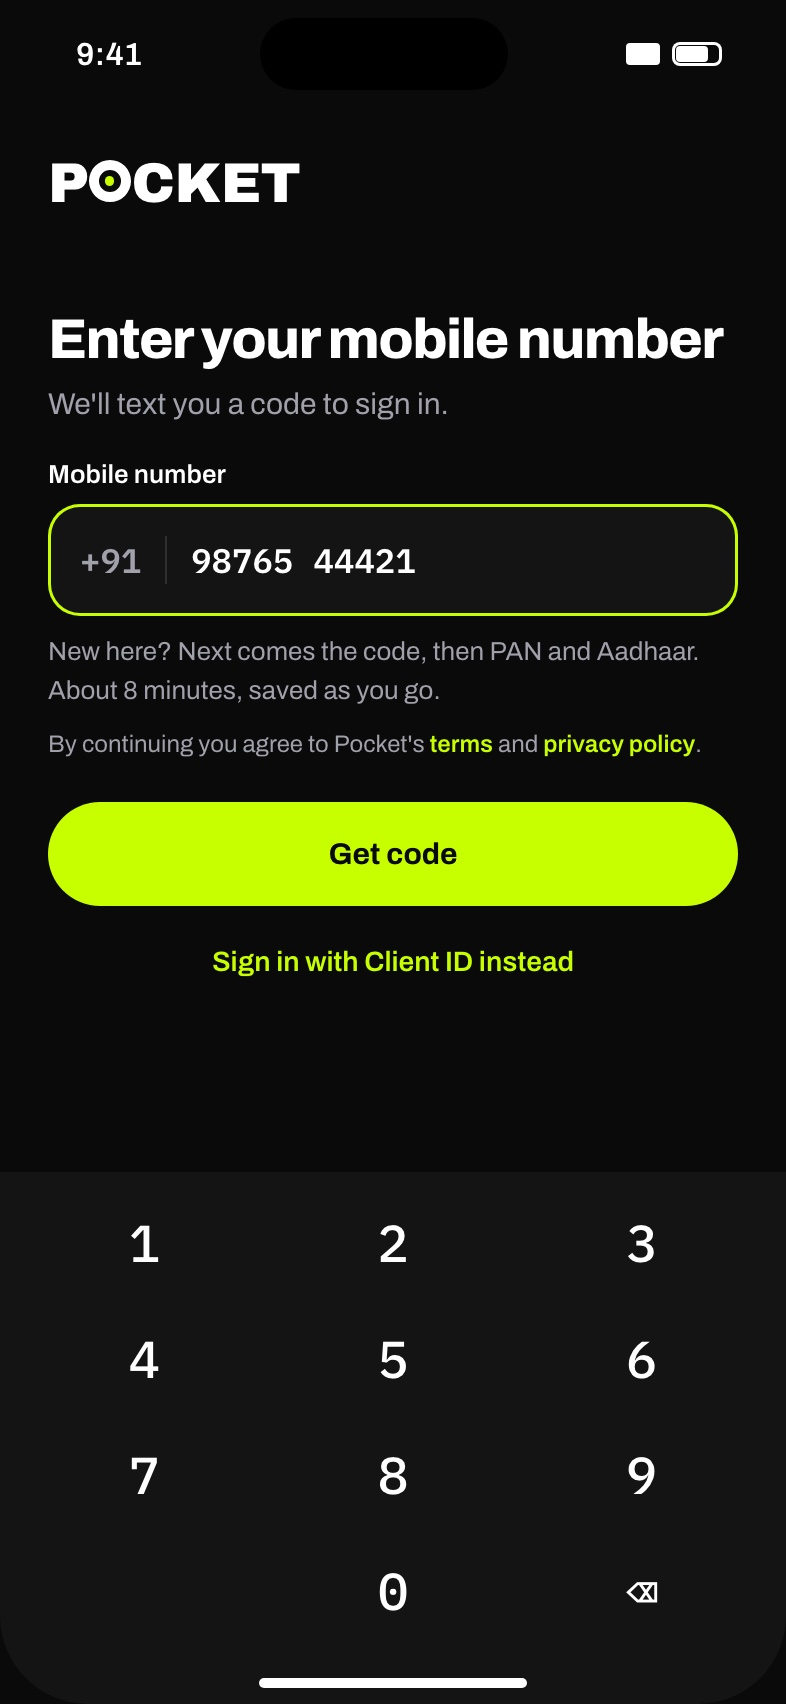
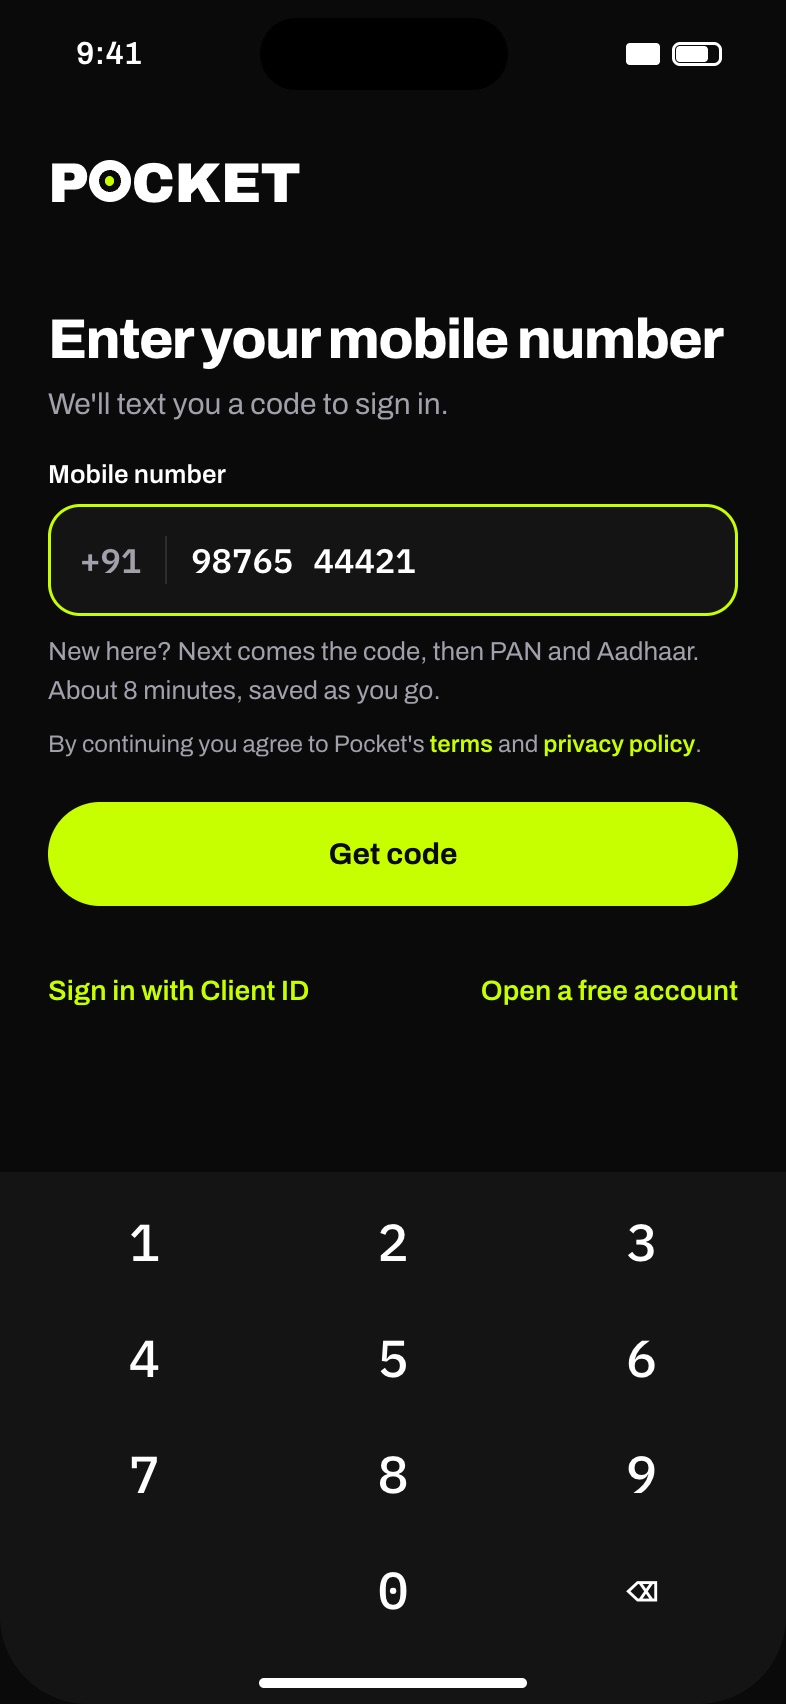
Use the 11 Nov hi-fi screens in the Pocket prototype case study
Sign in, Home, Home full length, Funds and Add funds now show the current
design: Open a free account on sign-in, and cash with Add funds on Home.

diff --git a/pocket-prototype/index.html b/pocket-prototype/index.html
@@ -116,7 +116,7 @@ a:focus-visible,button:focus-visible{outline:2px solid #C8FF00;outline-offset:3p
     <h1 style="grid-column:1;grid-row:1;align-self:start;margin:70px 0 0;max-width:9ch;font-weight:500;font-stretch:125%;font-size:clamp(44px,5vw,72px);line-height:1.02;letter-spacing:-0.035em;animation:ptRise .9s cubic-bezier(.16,1,.3,1) both;animation-delay:.1s">Made to be tapped.</h1>
 
     <div style="grid-column:2;grid-row:1 / span 2;align-self:center;animation:ptRise 1s cubic-bezier(.16,1,.3,1) both;animation-delay:.2s">
-      <div style="animation:ptFloat 7s ease-in-out infinite"><img class="pt-phone" src="pocket-prototype/home.jpg" alt="Pocket Home screen: portfolio value, products and most bought stocks" width="786" height="1704"></div>
+      <div style="animation:ptFloat 7s ease-in-out infinite"><img class="pt-phone" src="pocket-prototype/home.jpg" alt="Pocket Home screen: portfolio value with cash and Add funds, products and most bought stocks" width="786" height="1704"></div>
     </div>
 
     <p class="pt-small" style="grid-column:3;grid-row:1;align-self:start;margin:80px 0 0;max-width:28ch;justify-self:end;animation:ptRise .9s cubic-bezier(.16,1,.3,1) both;animation-delay:.3s">Pocket is a stock and mutual fund app for India. 276 hi-fi screens, now a working prototype on live market data.</p>
@@ -190,7 +190,7 @@ a:focus-visible,button:focus-visible{outline:2px solid #C8FF00;outline-offset:3p
 <section class="pt-sec" data-screen-label="06 Open an account" data-pt-pad style="background:#050506">
   <div data-rv class="pt-head"><h2 class="pt-h2">Ten steps<br>to an account</h2><p class="pt-small">Mobile number, DigiLocker, a ₹1 UPI bank check and Aadhaar eSign. A shorter KYC, one step per screen.</p></div>
   <div class="pt-scroll">
-    <figure data-rv style="margin:0"><img class="pt-phone" src="pocket-prototype/sign-in.jpg" alt="Pocket sign in" width="786" height="1704" loading="lazy"><figcaption class="pt-mono pt-cap">Sign in</figcaption></figure>
+    <figure data-rv style="margin:0"><img class="pt-phone" src="pocket-prototype/sign-in.jpg" alt="Pocket sign in, with Open a free account" width="786" height="1704" loading="lazy"><figcaption class="pt-mono pt-cap">Sign in</figcaption></figure>
     <figure data-rv style="margin:0"><img class="pt-phone" src="pocket-prototype/kyc-mobile.jpg" alt="Pocket KYC step 1, mobile number" width="786" height="1704" loading="lazy"><figcaption class="pt-mono pt-cap">Step 1 · Mobile</figcaption></figure>
     <figure data-rv style="margin:0"><img class="pt-phone" src="pocket-prototype/kyc-digilocker.jpg" alt="Pocket KYC step 4, DigiLocker" width="786" height="1704" loading="lazy"><figcaption class="pt-mono pt-cap">Step 4 · DigiLocker</figcaption></figure>
     <figure data-rv style="margin:0"><img class="pt-phone" src="pocket-prototype/kyc-bank.jpg" alt="Pocket KYC step 6, bank check by 1 rupee UPI" width="786" height="1704" loading="lazy"><figcaption class="pt-mono pt-cap">Step 6 · Bank by ₹1</figcaption></figure>
@@ -236,7 +236,7 @@ a:focus-visible,button:focus-visible{outline:2px solid #C8FF00;outline-offset:3p
 <section class="pt-sec" data-screen-label="10 Full length" data-pt-pad style="background:#050506">
   <div data-rv class="pt-head"><h2 class="pt-h2">Full length</h2><p class="pt-small">Home, a stock, a fund and the SIP calculator, top to bottom. The long screens are where the hierarchy gets tested.</p></div>
   <div class="pt-scroll" style="align-items:flex-start;gap:32px">
-    <figure data-rv style="margin:0;flex:1 0 250px"><div class="pt-tall"><img src="pocket-prototype/tall-home.jpg" alt="Pocket Home, full length" width="590" height="2519" loading="lazy"></div><figcaption class="pt-mono pt-cap">Home</figcaption></figure>
+    <figure data-rv style="margin:0;flex:1 0 250px"><div class="pt-tall"><img src="pocket-prototype/tall-home.jpg" alt="Pocket Home, full length" width="590" height="2552" loading="lazy"></div><figcaption class="pt-mono pt-cap">Home</figcaption></figure>
     <figure data-rv style="margin:80px 0 0;flex:1 0 250px"><div class="pt-tall"><img src="pocket-prototype/tall-stock.jpg" alt="Pocket stock overview, full length" width="590" height="3805" loading="lazy"></div><figcaption class="pt-mono pt-cap">Stock overview</figcaption></figure>
     <figure data-rv style="margin:30px 0 0;flex:1 0 250px"><div class="pt-tall"><img src="pocket-prototype/tall-fund.jpg" alt="Pocket mutual fund page, full length" width="590" height="4302" loading="lazy"></div><figcaption class="pt-mono pt-cap">Fund page</figcaption></figure>
     <figure data-rv style="margin:130px 0 0;flex:1 0 250px"><div class="pt-tall"><img src="pocket-prototype/tall-calc.jpg" alt="Pocket SIP calculator, full length" width="590" height="1926" loading="lazy"></div><figcaption class="pt-mono pt-cap">SIP calculator</figcaption></figure>
